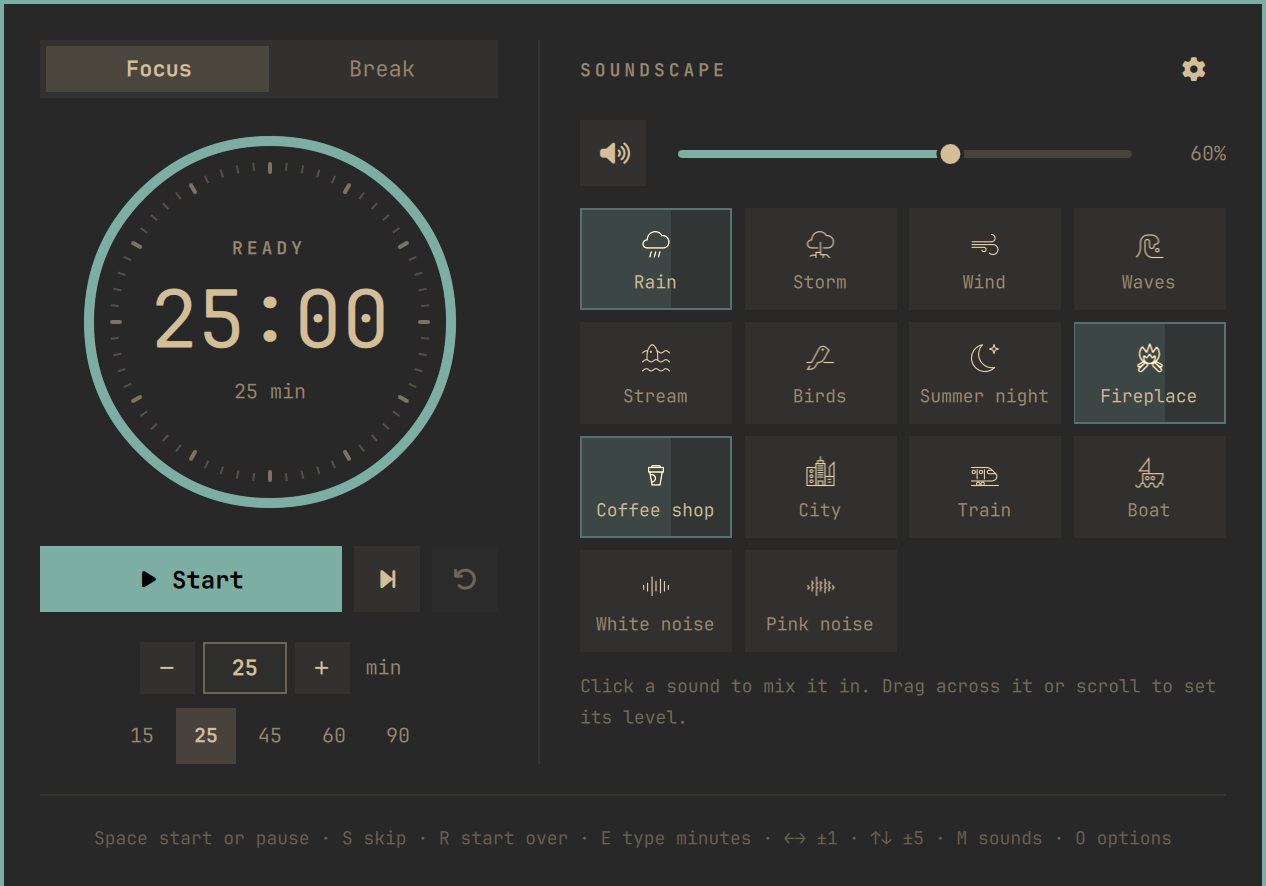
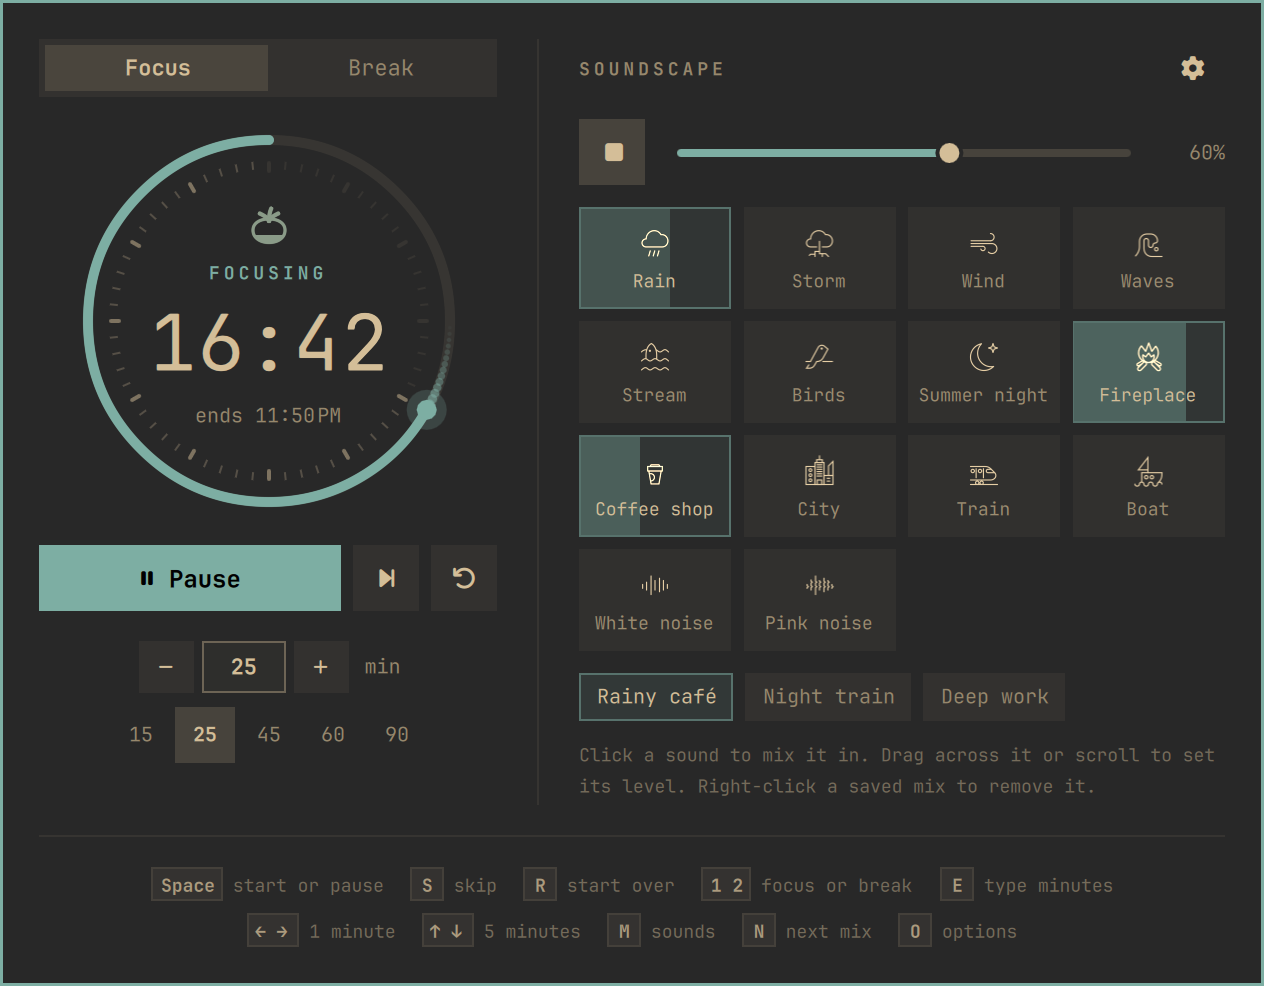
Show the new look in the previews

diff --git a/README.md b/README.md
@@ -8,7 +8,7 @@ work. When the time is up, Ripe makes sure you notice: the whole screen dims,
 your desktop still visible beneath, and a single quiet message tells you to
 step away.
 
-![Ripe in action: a focus session running in the Omarchy bar](https://github.com/menelaostX99/ripe/releases/download/v1.0.0/ripe_preview.gif)
+![Ripe in action: a focus session running in the Omarchy bar](https://github.com/menelaostX99/ripe/releases/download/v1.1.0/ripe_preview.gif)
 
 ## What it does
 
